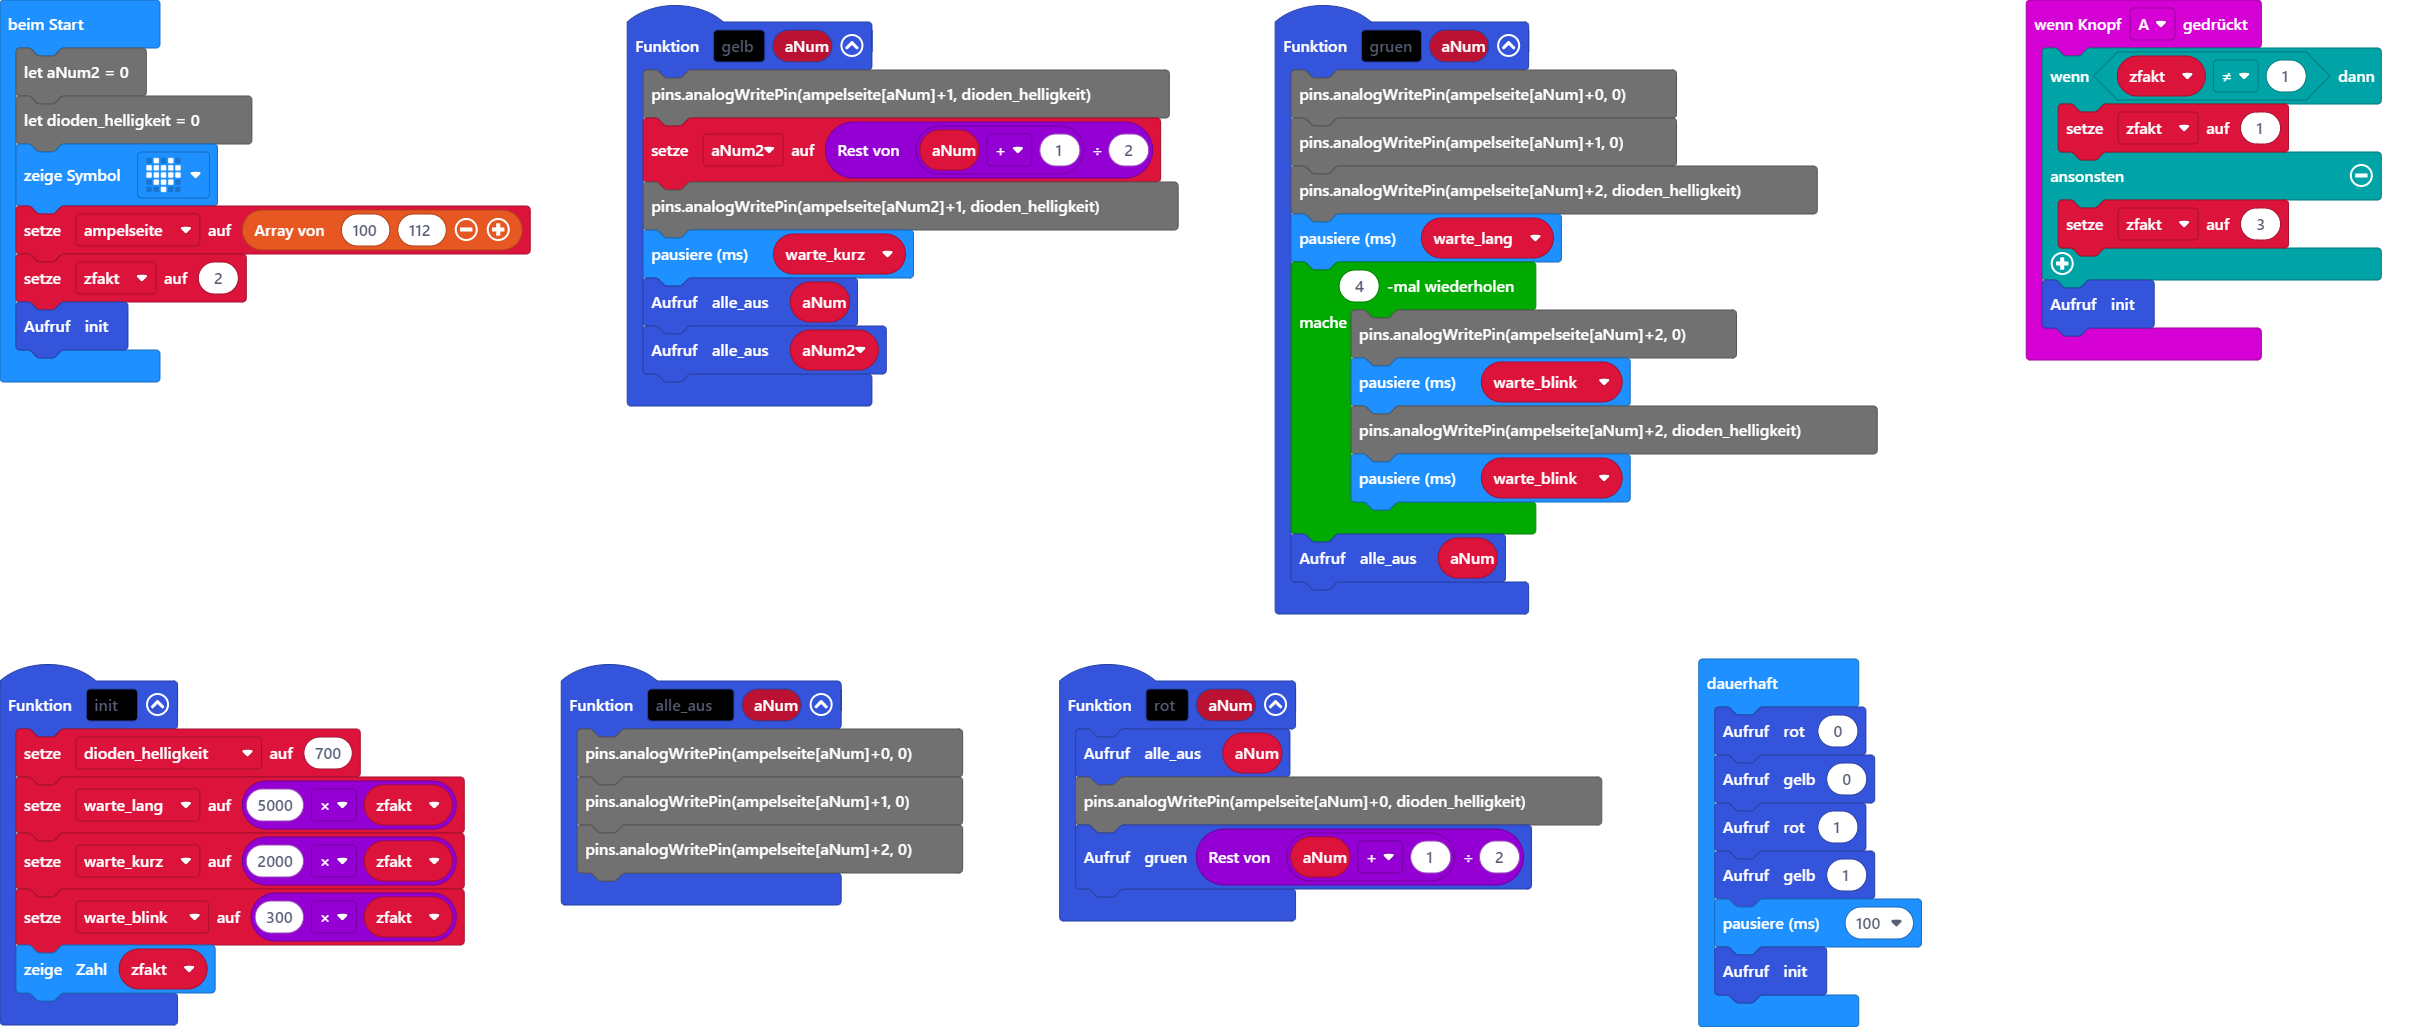
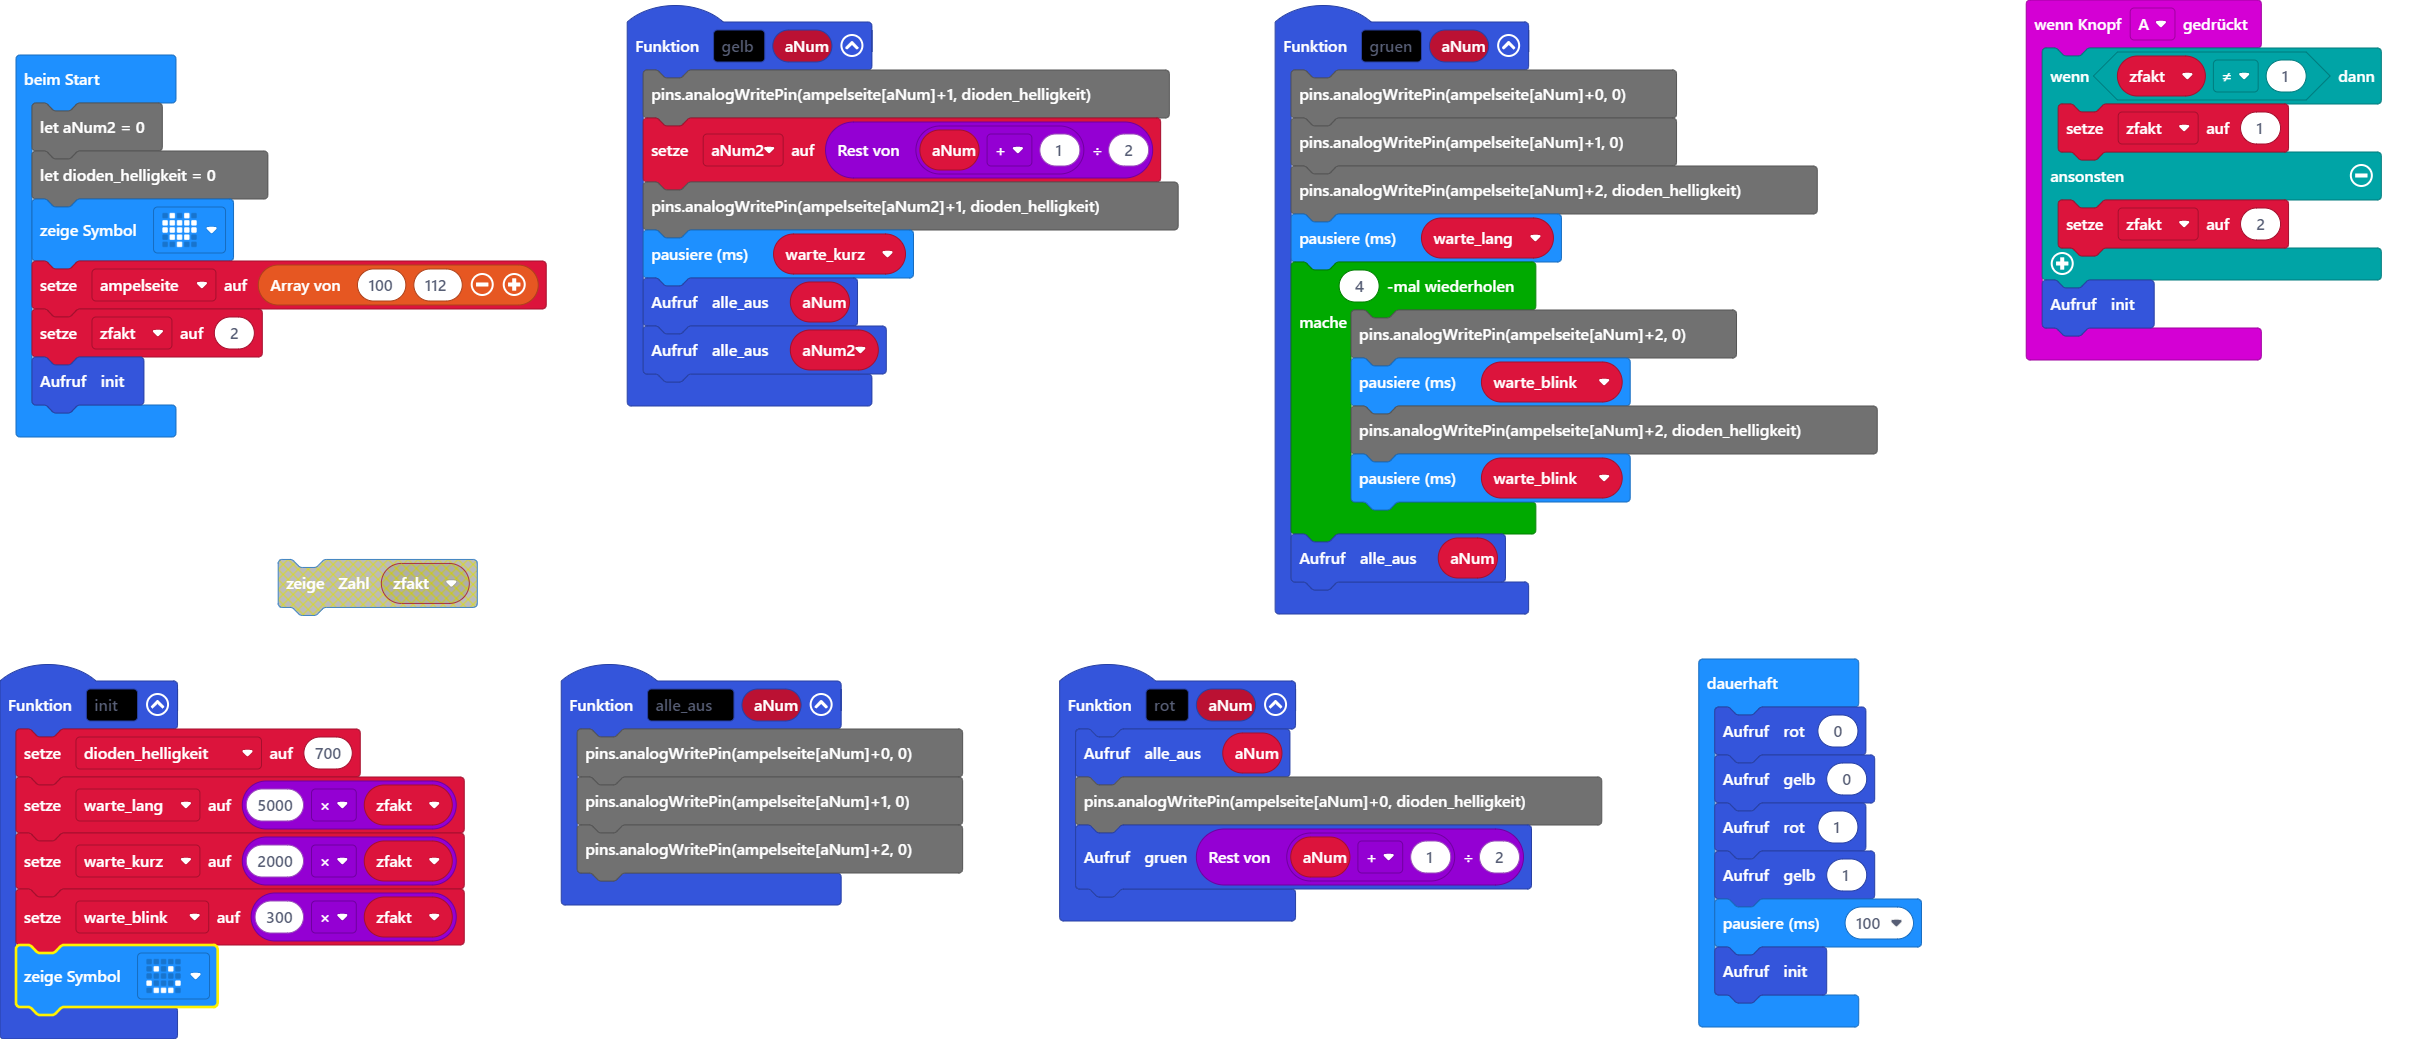
Aktualisiere main.blocks, main.ts

diff --git a/main.ts b/main.ts
@@ -28,7 +28,7 @@ input.onButtonPressed(Button.A, function () {
     if (zfakt != 1) {
         zfakt = 1
     } else {
-        zfakt = 3
+        zfakt = 2
     }
     init()
 })
@@ -37,7 +37,7 @@ function init () {
     warte_lang = 5000 * zfakt
     warte_kurz = 2000 * zfakt
     warte_blink = 300 * zfakt
-    basic.showNumber(zfakt)
+    basic.showIcon(IconNames.Happy)
 }
 function alle_aus (aNum: number) {
     pins.analogWritePin(ampelseite[aNum]+0, 0)
